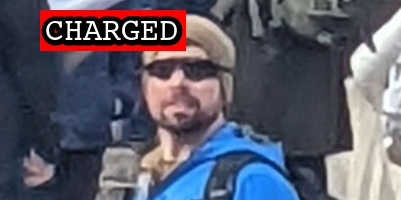
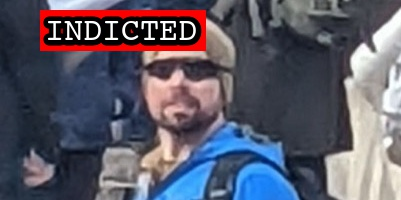
Hatchet indictment

Changed region(s): [[0.0898, 0.03, 0.5387, 0.27]]

diff --git a/docs/_suspects/hatchet-speed.md b/docs/_suspects/hatchet-speed.md
@@ -4,10 +4,10 @@ lastName: Speed
 hashtag:
 aka:
 residence: Virginia
-status: Charged
+status: Indicted
 date: 2022-06-21
 charged: 2022-06-21
-indicted:
+indicted: 2022-01-11
 convicted:
 acquitted:
 sentenced:
@@ -43,6 +43,8 @@ videos:
 charges:
 sentence:
 ---
+
 - [News Report](https://www.msn.com/en-us/news/crime/fbi-navy-petty-officer-arrested-on-capitol-riot-charges-had-arsenal-of-guns-praised-unabomber/ar-AAYNcvq)
 - [Complaint](https://www.justice.gov/usao-dc/case-multi-defendant/file/1514546/download)
 - [Statement of Facts](https://www.justice.gov/usao-dc/case-multi-defendant/file/1514551/download)
+- [Indictment](https://storage.courtlistener.com/recap/gov.uscourts.dcd.245477/gov.uscourts.dcd.245477.38.0_1.pdf)
